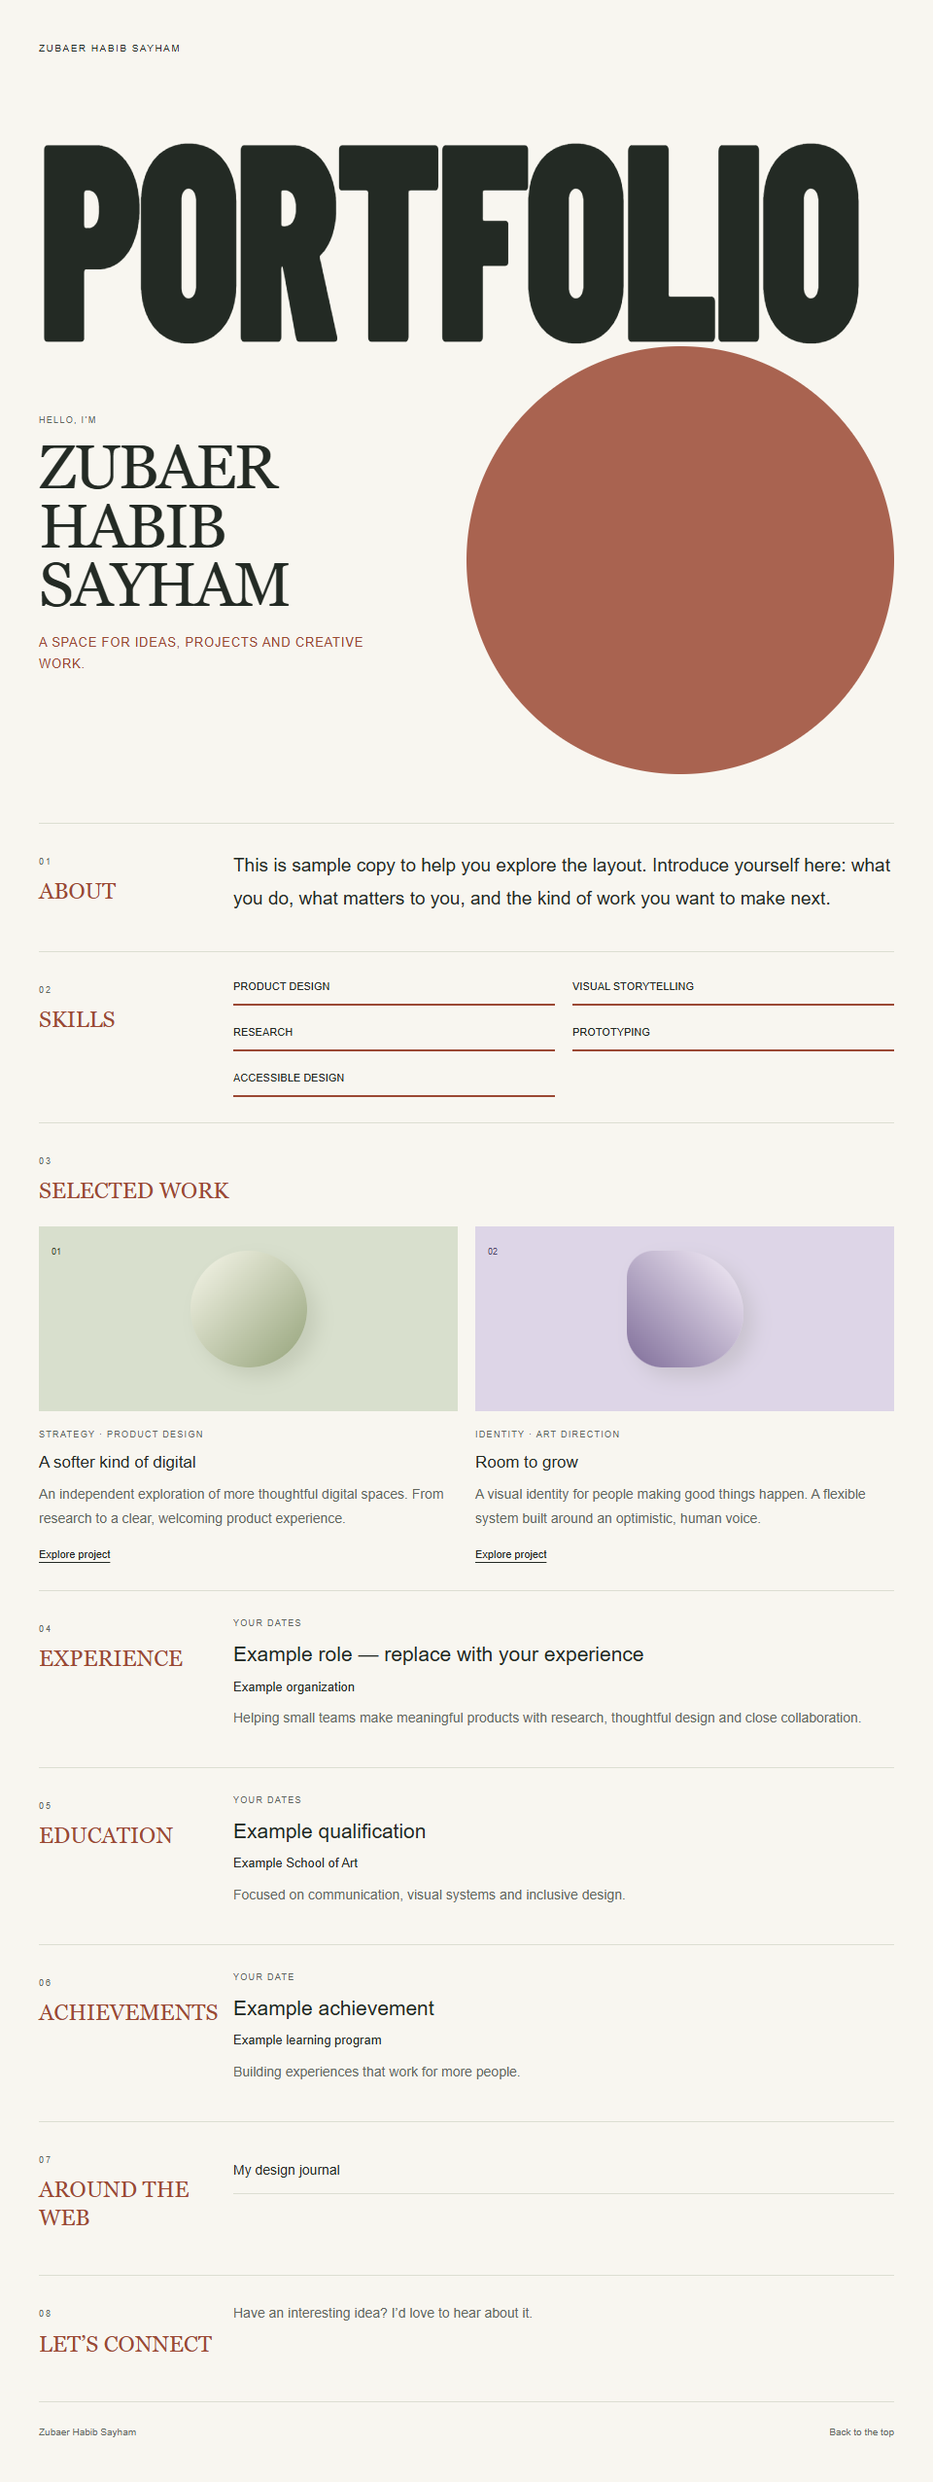
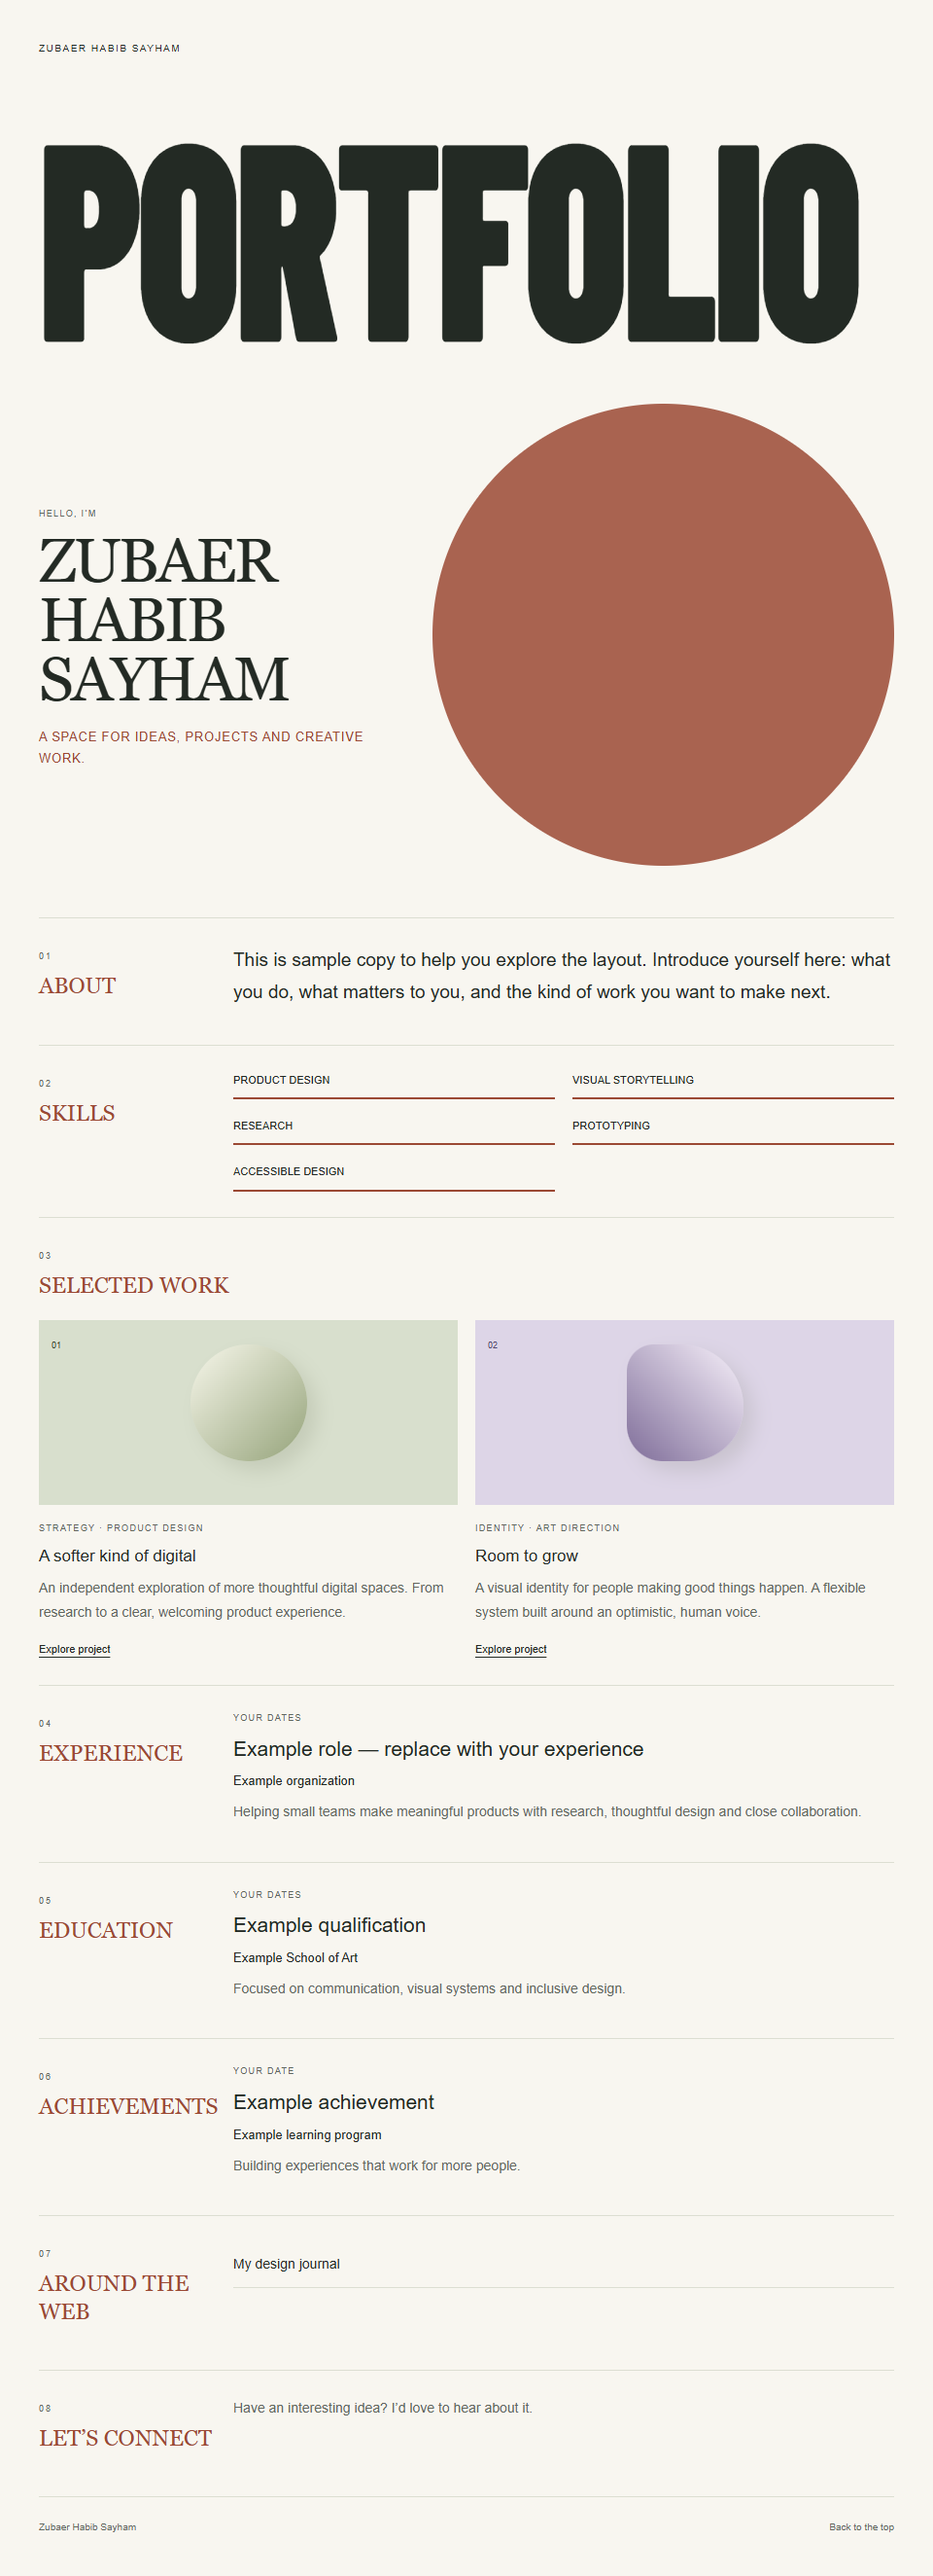
fix: preserve studio portrait proportions across canvas sizes

diff --git a/tests/e2e/export-layout.spec.js b/tests/e2e/export-layout.spec.js
@@ -10,7 +10,7 @@ async function layout(locator) {
     const origin = root.getBoundingClientRect();
     return [
       ...root.querySelectorAll(
-        ".portfolio-masthead,.studio-display,.studio-introduction,.studio-photo-area,h1,h2,h3,.portfolio-prose,.project-grid,.portfolio-section,.portfolio-portrait",
+        ".portfolio-masthead,.studio-display,.studio-introduction,.studio-photo-area,.studio-photo-circle,h1,h2,h3,.portfolio-prose,.project-grid,.portfolio-section,.portfolio-portrait",
       ),
     ].map((node) => {
       const box = node.getBoundingClientRect();
@@ -98,13 +98,51 @@ test("all website ZIP layouts match the live preview at the same canvas width", 
           .locator(".studio-photo-area")
           .boundingBox();
         expect(photo.y).toBeGreaterThanOrEqual(title.y + title.height);
+        const circle = await standalone
+          .locator(".studio-photo-circle")
+          .boundingBox();
+        expect(circle.y).toBeGreaterThanOrEqual(title.y + title.height);
       }
     }
     if (template.id === "studio")
-      await standalone.screenshot({
-        path: "artifacts/studio-zip-corrected-mobile.png",
-        fullPage: true,
-      });
+      for (const width of [375, 600, 799, 923, 960, 1366]) {
+        await standalone.setViewportSize({ width, height: 900 });
+        const geometry = await standalone
+          .locator(".studio-photo-area")
+          .evaluate((area) => {
+            const box = area.getBoundingClientRect();
+            const photo = area
+              .querySelector(".portfolio-portrait")
+              .getBoundingClientRect();
+            const circle = area
+              .querySelector(".studio-photo-circle")
+              .getBoundingClientRect();
+            return {
+              ratio: box.width / box.height,
+              circleRatio: circle.width / circle.height,
+              widths: [box.width, photo.width, circle.width],
+              right: [photo.right, circle.right],
+            };
+          });
+        expect(geometry.ratio).toBeCloseTo(1.08, 2);
+        expect(geometry.circleRatio).toBeCloseTo(1, 2);
+        expect(
+          Math.max(...geometry.widths) - Math.min(...geometry.widths),
+        ).toBeLessThan(1);
+        expect(Math.abs(geometry.right[0] - geometry.right[1])).toBeLessThan(1);
+        const display = await standalone
+          .locator(".studio-display")
+          .boundingBox();
+        const circle = await standalone
+          .locator(".studio-photo-circle")
+          .boundingBox();
+        expect(circle.y).toBeGreaterThanOrEqual(display.y + display.height);
+        if (width === 923)
+          await standalone.screenshot({
+            path: "artifacts/studio-zip-923.png",
+            fullPage: true,
+          });
+      }
     await context.close();
     await page
       .getByRole("button", { name: "Back to editing", exact: true })

diff --git a/shared/src/portfolio.css b/shared/src/portfolio.css
@@ -608,7 +608,7 @@
   letter-spacing: -0.025em;
   transform: scaleY(1.3);
   transform-origin: top;
-  margin-bottom: 70px;
+  margin-bottom: calc(14cqw + 24px);
 }
 .studio-introduction {
   position: relative;
@@ -648,8 +648,8 @@
 .studio-photo-circle {
   position: absolute;
   right: 0;
-  bottom: 20px;
-  width: min(100%, 440px);
+  bottom: 5.15%;
+  width: 100%;
   aspect-ratio: 1;
   border-radius: 50%;
   background: color-mix(in srgb, var(--accent) 85%, var(--paper));
@@ -657,7 +657,7 @@
 .studio-photo-area {
   position: relative;
   width: 100%;
-  height: clamp(340px, 45cqw, 520px);
+  aspect-ratio: 1.08;
 }
 .template-studio .portfolio-portrait {
   width: 100%;
@@ -749,19 +749,19 @@
   .template-studio .portfolio-portrait {
     position: absolute;
     width: 100%;
-    height: 340px;
+    height: 100%;
     right: auto;
     margin: 0;
   }
   .studio-photo-circle {
     position: absolute;
     width: 100%;
-    bottom: 20px;
+    bottom: 5.15%;
   }
   .studio-photo-area {
     position: relative;
     width: 100%;
-    height: 340px;
+    aspect-ratio: 1.08;
   }
   .studio-photo-hint {
     position: absolute;

diff --git a/docs/QA.md b/docs/QA.md
@@ -1,5 +1,11 @@
 # Verification log
 
+## Proportional Studio portrait geometry
+
+- The user supplied screenshots with different canvas widths. The circle previously capped at 440 pixels while the photo continued growing; fixed pixel heights also changed their proportions. The circle now tracks the photo width and both use an aspect-ratio frame and proportional offset. The title reserves space for its vertical transform and the circle overhang.
+- `npm run check` passed lint, syntax validation, all 32 unit/API tests and both builds. Four relevant browser tests passed, including matching preview/ZIP geometry for all five templates and actual PDF/PNG/ZIP artifacts. Studio circles were checked at 375, 600, 799, 923, 960 and 1366 pixels: round, equal photo/circle widths, aligned edges and clear of the title. The 923-pixel standalone screenshot was visually reviewed. Gallery assets were regenerated.
+- The initial visual review exposed a circle reaching into the display title; added proportional spacing and checks for the circle itself before the passing rerun. The user's hosted URL remains unavailable, so its deployed CSS/version has not been inspected. A new ZIP must replace an old deployment.
+
 ## Clearer browser-only portfolio hosting
 
 - The illustrated guide now starts with Netlify Drop and gives exact sign-in, ZIP upload, Make public, private-window verification and same-address update steps. Expandable help covers blank pages, missing assets, stale layouts and the existing Cloudflare Pages Production upload path. Illustrations open larger in a new tab; no extra installation is needed. The ZIP README includes the same guidance.

diff --git a/docs/IMPLEMENTATION_PLAN.md b/docs/IMPLEMENTATION_PLAN.md
@@ -1,5 +1,7 @@
 # Implementation plan
 
+Latest request: first keep the Studio circle/photo geometry proportional across preview and website widths, including screenshot-sized regression checks. Then replace the CV export with a one-page A4 résumé retaining template colors, typography and composition, shortening only an export copy. Verify all templates, long/hidden content, page size/count, rendered readability and the remaining exports before pushing each slice. More templates and public launch follow user review; no publication is authorized yet.
+
 Current revision: convert application, server, proxy, scripts and tests to JavaScript/JSX while retaining React, runtime schemas, behavior and layouts. Verify renderer output and the full suite before committing. Then add optional local portrait background removal with an original-photo fallback, bounded transparent image storage and verified exports. Finally make Netlify Drop the simpler illustrated ZIP-hosting path and clarify Cloudflare troubleshooting. Keep publication approval separate from authorized GitHub pushes.
 
 Revision status: JavaScript migration, local portrait cutouts/original restoration, optional uploaded signatures, shared preview/export layout rules and the clearer hosting guide are implemented and locally verified. External cloud/hosting checks remain outstanding; see QA.md. Replace old uploaded ZIPs to receive these changes.
